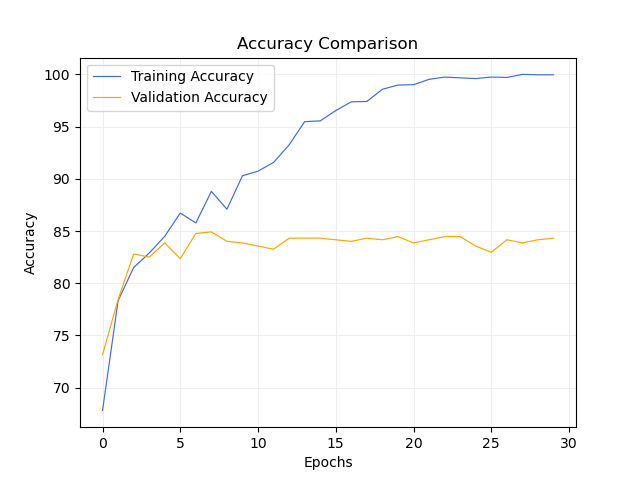
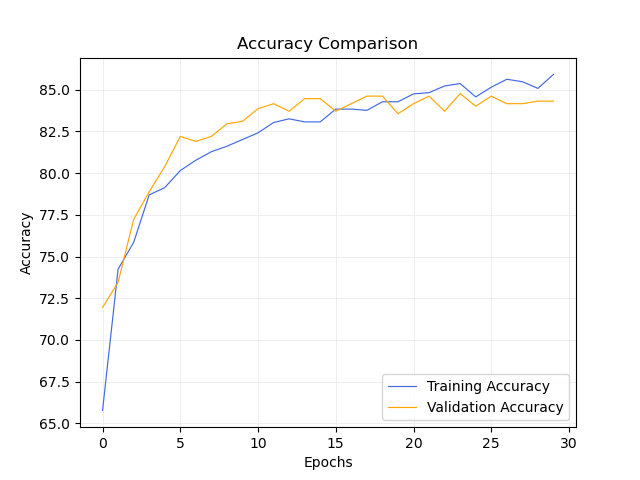
update key features on network loading

diff --git a/src/models/train_model.py b/src/models/train_model.py
@@ -6,6 +6,9 @@ from torch.utils.data import DataLoader
 device = torch.device("cuda") if torch.cuda.is_available() else torch.device("cpu")
 print(f'Using {device} for inference')
 
+# tentar trocar o adam aqui e no pytorch e treinar novamente
+# usar SGD ou RMSPROP
+
 '''
 Define the CNN architecture
 based on ResNet50, with its
@@ -16,16 +19,17 @@ class Net(nn.Module):
 	def __init__(self):
 		super(Net, self).__init__()
 		self.model = torchvision.models.vgg16(weights=torchvision.models.VGG16_Weights.DEFAULT)
-		self.model = nn.Sequential(*list(self.model.children())[:-1]) # remove fc layer
+		self.features = self.model.features	# self.features has only convolutional layers from self.model
+		# self.model = nn.Sequential(*list(self.model.children())[:-1]) # remove fc layer
 		self.flatten = nn.Flatten()
-		self.fc1 = nn.Linear(25088, 1024)
+		self.fc1 = nn.Linear(25088, 512)
 		self.relu = nn.ReLU()
-		self.fc2 = nn.Linear(1024, 2)
+		self.fc2 = nn.Linear(512, 2)
 		self.dropout = nn.Dropout(p=0.5)
 
 	# x represents our data
 	def forward(self, x):
-		x = self.model(x)
+		x = self.features(x)
 		x = self.flatten(x)
 		x = self.fc1(x)
 		x = self.relu(x)
@@ -67,8 +71,11 @@ def validate_model(model, val_loader, loss_fn):
 			loss = loss_fn(outputs, labels)
 			running_loss += loss.item()
 
-			# the label with the highest energy will be our prediction (compute acc)
+			# use softmax to get probabilities
+			probabilities = torch.softmax(outputs, dim=1)
+
 			_, predicted = torch.max(outputs.data, 1)
+
 			total += labels.size(0)
 			accuracy += (predicted == labels).sum().item()
 
@@ -100,7 +107,7 @@ def train_one_epoch(model, train_loader, loss_fn, optimizer):
 		# zero gradients for every batch
 		optimizer.zero_grad()
 
-		# make predictions for this batch
+		# make predictions for this batch (outputs are logits)
 		outputs = model(images)
 
 		# compute the loss and its gradients, call backgpropagation
@@ -145,7 +152,7 @@ def train_model(train_loader, val_loader, EPOCHS, lr):
 	vloss_hist = []
 
 	# freeze all layers in the ResNet50 backbone
-	for param in model.model.parameters():
+	for param in model.features.parameters():
 		param.requires_grad = False  # freeze all convolutional layers
 	
 	# defining parameters
@@ -154,7 +161,6 @@ def train_model(train_loader, val_loader, EPOCHS, lr):
 
 	optimizer = torch.optim.Adam(filter(lambda p: p.requires_grad, model.parameters()), lr=lr)
 	loss_fn = nn.CrossEntropyLoss()
-	# optimizer = torch.optim.Adam(model.parameters(), lr=lr)
 
 	curr_epoch = 0
 	best_acc = 0.
@@ -190,9 +196,8 @@ def train_model(train_loader, val_loader, EPOCHS, lr):
 
 		if epoch == 10:
 			optimizer = torch.optim.Adam(model.parameters(), lr=lr/10)
-			for param in model.model.parameters():
+			for param in model.features[20:].parameters():	# unfreeze last 2 conv blocks (last 10 layers)
 				param.requires_grad = True
-
 
 		curr_epoch += 1
 	return loss_hist, vloss_hist, acc_hist, vacc_hist

diff --git a/main.py b/main.py
@@ -19,11 +19,11 @@ def main():
     data_path = '/home/rodrigocm/scratch/datasets/brset/selected_photos'
     # data_path = '/home/rodrigocm/scratch/datasets/eyeq/images'
     save_images_path = '/home/rodrigocm/research/gradcam-on-eye-fundus-images-IQA/data/images/charts/'
-    weights_path = '/home/rodrigocm/research/gradcam-on-eye-fundus-images-IQA/data/model/brset_84acc.pth'
+    weights_path = '/home/rodrigocm/research/gradcam-on-eye-fundus-images-IQA/data/model/brset_model.pth'
 
     # define parameters
     epochs = 30
-    lr = 0.0001
+    lr = 0.00001
 
     # import dataset
     print("Importando imagens...")
@@ -36,10 +36,11 @@ def main():
     print(f"Concluído\nShape das imagens {train_features.size()}")
 
     # train dataset
-    # loss_hist, vloss_hist, acc_hist, vacc_hist = train_model(train_loader, val_loader, epochs, lr)
-    # call_epochs_plot(loss_hist, vloss_hist, acc_hist, vacc_hist, save_images_path)
+    loss_hist, vloss_hist, acc_hist, vacc_hist = train_model(train_loader, val_loader, epochs, lr)
+    call_epochs_plot(loss_hist, vloss_hist, acc_hist, vacc_hist, save_images_path)
 
     # evaluate model
+    # ajustar o threshold aqui na hora de gerar o report
     y_true, y_pred, y_pred_prob, cm = test_model(test_loader, weights_path)
 
     # plot cm, roc and pr curve
@@ -47,8 +48,3 @@ def main():
     plot_roc_curve(y_true, y_pred_prob, save_path="/home/rodrigocm/research/gradcam-on-eye-fundus-images-IQA/data/images/charts/roc_curve")
     plot_pr_curve(y_true, y_pred_prob, save_path="/home/rodrigocm/research/gradcam-on-eye-fundus-images-IQA/data/images/charts/pr_curve")
 main()
-
-# testar o modelo com o eyeq
-# testar o modelo no test_loader
-# plotar roc-auc, pr-curve, matriz de confusao
-# arrumar o modelo para tentar alcancar a mesma acuracia que o tensorflow

diff --git a/src/models/test_model.py b/src/models/test_model.py
@@ -30,11 +30,13 @@ def evaluate_model(model, test_loader, loss_fn):
 			images, labels = data
 			images, labels = images.to(device), labels.to(device)
 
+			# get model logits
 			outputs = model(images)
 
 			loss = loss_fn(outputs, labels)
 			running_loss += loss.item()
 
+			# use softmax to get probabilities
 			probabilities = torch.softmax(outputs, dim=1)
 
 			_, predicted = torch.max(outputs.data, 1)

diff --git a/src/data/import_data.py b/src/data/import_data.py
@@ -4,9 +4,6 @@ from torchvision import datasets, transforms
 from torchvision.transforms import v2
 from torchvision.utils import save_image
 
-# https://www.kaggle.com/code/gxkok21/resnet50-with-pytorch
-# interessante para dar load nas imagens com class
-
 # denormalize image to save
 def denormalize(tensor, mean, std):
     mean = torch.tensor(mean).view(1, 3, 1, 1)
